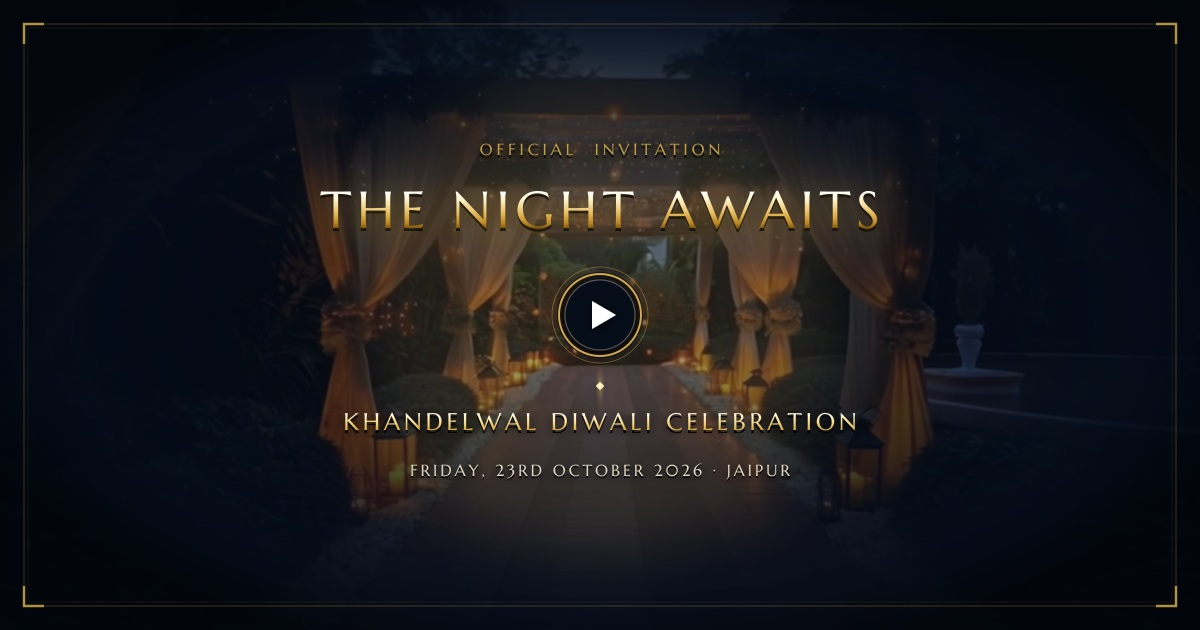
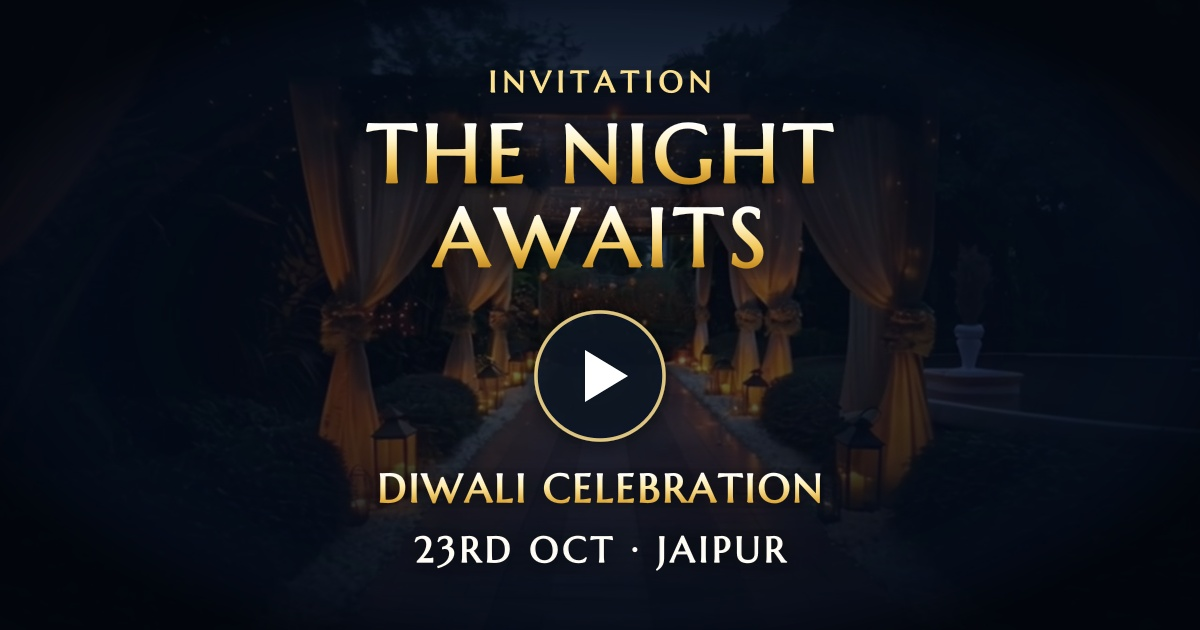
Redesign Main Invite WhatsApp OG preview cards with large bold typography for crystal-clear square thumbnail

diff --git a/src/app/i/[code]/page.tsx b/src/app/i/[code]/page.tsx
@@ -52,7 +52,7 @@ export async function generateMetadata({ params, searchParams }: Props) {
 
   let title = "The Night Awaits — Arpit's 40th & Diwali Celebration"
   let description = "Personal Video Invitation • Tap to open"
-  let ogImageUrl = "https://khandelwalinvite.vercel.app/og-main.jpg?v=1"
+  let ogImageUrl = "https://khandelwalinvite.vercel.app/og-main.jpg?v=3"
 
   if (isSaveTheDate) {
     if (isDiwali) {
@@ -69,11 +69,11 @@ export async function generateMetadata({ params, searchParams }: Props) {
     if (isDiwali) {
       title = "The Night Awaits — Khandelwal Diwali Celebration"
       description = "Personal Video Invitation • Tap to open"
-      ogImageUrl = "https://khandelwalinvite.vercel.app/og-diwali-main.jpg?v=1"
+      ogImageUrl = "https://khandelwalinvite.vercel.app/og-diwali-main.jpg?v=3"
     } else {
       title = "The Night Awaits — Arpit's 40th & Diwali Celebration"
       description = "Personal Video Invitation • Tap to open"
-      ogImageUrl = "https://khandelwalinvite.vercel.app/og-main.jpg?v=1"
+      ogImageUrl = "https://khandelwalinvite.vercel.app/og-main.jpg?v=3"
     }
   }
 

diff --git a/src/app/layout.tsx b/src/app/layout.tsx
@@ -45,7 +45,7 @@ export const metadata: Metadata = {
     siteName: "Arpit's 40th & Diwali Celebration",
     images: [
       {
-        url: 'https://khandelwalinvite.vercel.app/og-main.jpg?v=1',
+        url: 'https://khandelwalinvite.vercel.app/og-main.jpg?v=3',
         width: 1200,
         height: 630,
         type: 'image/jpeg',
@@ -57,7 +57,7 @@ export const metadata: Metadata = {
     card: 'summary_large_image',
     title: "The Night Awaits — Arpit's 40th & Diwali Celebration",
     description: 'Personal Video Invitation • Tap to open',
-    images: ['https://khandelwalinvite.vercel.app/og-main.jpg?v=1'],
+    images: ['https://khandelwalinvite.vercel.app/og-main.jpg?v=3'],
   },
   robots: 'noindex, nofollow',
 }
